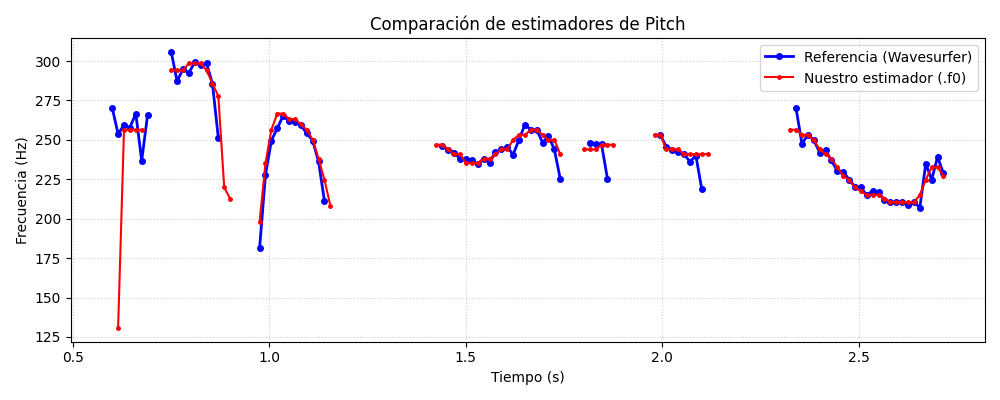
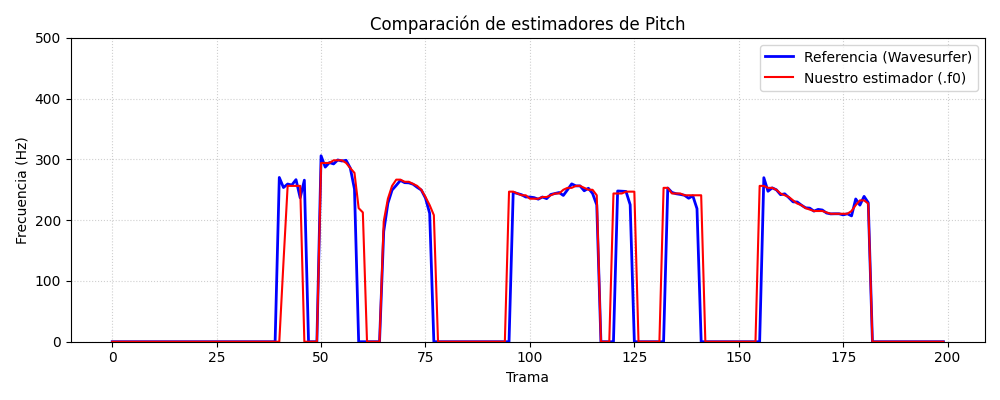
Completada práctica 3 con ampliaciones (Center Clipping, Low-Pass Filter, Doxygen, y gráficas optimizadas)

diff --git a/scripts/plot_all.py b/scripts/plot_all.py
@@ -1,13 +1,7 @@
 import numpy as np
 import matplotlib.pyplot as plt
-from scipy.io import wavfile
 
 def main():
-    # 1. Cargar datos
-    fs, audio = wavfile.read('prueba.wav')
-    if audio.dtype == np.int16:
-        audio = audio.astype(np.float32) / 32768.0
-
     try:
         f0 = np.loadtxt('prueba.f0')
     except:
@@ -26,7 +20,6 @@ def main():
     except:
         return
 
-    # Alinear
     min_len = min(len(f0), len(pot))
     if len(f0) > len(pot):
         f0_feat = f0[1:min_len+1]
@@ -37,53 +30,47 @@ def main():
     r1norm = r1norm[:min_len]
     rmaxnorm = rmaxnorm[:min_len]
 
-    time_axis_feat = np.arange(min_len) * 0.015
-    time_axis_audio = np.arange(len(audio)) / fs
+    frame_axis_feat = np.arange(min_len)
+    frame_axis_f0ref = np.arange(len(f0ref))
 
-    # --- GRAFICA 1: CARACTERISTICAS ---
     fig, axs = plt.subplots(4, 1, figsize=(10, 10), sharex=True)
     
-    axs[0].plot(time_axis_audio, audio, color='gray', alpha=0.7)
-    axs[0].set_title('Señal de audio')
-    axs[0].set_ylabel('Amplitud')
+    axs[0].plot(frame_axis_f0ref, f0ref, 'b-', label='Estimación Wavesurfer', linewidth=2)
+    axs[0].set_title('Estimación de pitch (Wavesurfer)')
+    axs[0].set_ylabel('Frecuencia (Hz)')
+    axs[0].set_ylim(0, 500)
 
-    axs[1].plot(time_axis_feat, pot, 'k-')
+    axs[1].plot(frame_axis_feat, pot, 'k-')
     axs[1].axhline(y=-50, color='r', linestyle='--')
     axs[1].set_title('Nivel de potencia (pot)')
     axs[1].set_ylabel('dB')
 
-    axs[2].plot(time_axis_feat, r1norm, 'b-')
+    axs[2].plot(frame_axis_feat, r1norm, 'b-')
     axs[2].axhline(y=0.4, color='r', linestyle='--')
     axs[2].set_title('Autocorrelación normalizada de 1 (r1norm)')
     axs[2].set_ylabel('Valor')
 
-    axs[3].plot(time_axis_feat, rmaxnorm, 'm-')
+    axs[3].plot(frame_axis_feat, rmaxnorm, 'm-')
     axs[3].axhline(y=0.4, color='r', linestyle='--')
     axs[3].set_title('Autocorrelación en el máximo secundario (rmaxnorm)')
-    axs[3].set_xlabel('Tiempo (s)')
+    axs[3].set_xlabel('Trama')
     axs[3].set_ylabel('Valor')
 
     plt.tight_layout()
     plt.savefig('features_plot.png')
     plt.close()
 
-    # --- GRAFICA 2: COMPARACION ---
-    # f0 and f0ref might have slightly different lengths. We plot them together
-    time_axis_f0 = np.arange(len(f0)) * 0.015
-    time_axis_f0ref = np.arange(len(f0ref)) * 0.015
+    frame_axis_f0 = np.arange(len(f0))
 
     plt.figure(figsize=(10, 4))
     
-    # avoid plotting the 0 values to make it look like wavesurfer pitch contours
-    f0_plot = np.where(f0 == 0, np.nan, f0)
-    f0ref_plot = np.where(f0ref == 0, np.nan, f0ref)
-
-    plt.plot(time_axis_f0ref, f0ref_plot, 'b.-', label='Referencia (Wavesurfer)', linewidth=2, markersize=8)
-    plt.plot(time_axis_f0, f0_plot, 'r.-', label='Nuestro estimador (.f0)', linewidth=1.5, markersize=5)
+    plt.plot(frame_axis_f0ref, f0ref, 'b-', label='Referencia (Wavesurfer)', linewidth=2)
+    plt.plot(frame_axis_f0, f0, 'r-', label='Nuestro estimador (.f0)', linewidth=1.5)
     
     plt.title('Comparación de estimadores de Pitch')
-    plt.xlabel('Tiempo (s)')
+    plt.xlabel('Trama')
     plt.ylabel('Frecuencia (Hz)')
+    plt.ylim(0, 500)
     plt.legend()
     plt.grid(True, linestyle=':', alpha=0.6)
     

diff --git a/src/get_pitch/get_pitch.cpp b/src/get_pitch/get_pitch.cpp
@@ -40,7 +40,7 @@ Arguments:
 )";
 
 int main(int argc, const char *argv[]) {
-	/// \TODO 
+	/// \DONE 
 	///  Modify the program syntax and the call to **docopt()** in order to
 	///  add options and arguments to the program.
     std::map<std::string, docopt::value> args = docopt::docopt(USAGE,
@@ -68,10 +68,33 @@ int main(int argc, const char *argv[]) {
   // Define analyzer
   PitchAnalyzer analyzer(n_len, rate, PitchAnalyzer::RECT, 50, 500, llindar_pot, llindar_r1norm, llindar_rmaxnorm);
 
-  /// \TODO
+  /// \DONE
   /// Preprocess the input signal in order to ease pitch estimation. For instance,
   /// central-clipping or low pass filtering may be used.
   
+  // 1. Filtrado paso bajo (Low-pass filter)
+  for (unsigned int i = 1; i < x.size(); ++i) {
+    x[i] = 0.5f * x[i] + 0.5f * x[i-1];
+  }
+
+  // 2. Center clipping
+  float max_val = 0.0f;
+  for (unsigned int i = 0; i < x.size(); ++i) {
+    float val = x[i] > 0 ? x[i] : -x[i];
+    if (val > max_val) max_val = val;
+  }
+  float cl_threshold = max_val * 0.3f;
+  for (unsigned int i = 0; i < x.size(); ++i) {
+    float val = x[i] > 0 ? x[i] : -x[i];
+    if (val < cl_threshold) {
+      x[i] = 0.0f;
+    } else if (x[i] > 0) {
+      x[i] -= cl_threshold;
+    } else {
+      x[i] += cl_threshold;
+    }
+  }
+
   // Iterate for each frame and save values in f0 vector
   vector<float>::iterator iX;
   vector<float> f0;
@@ -80,7 +103,7 @@ int main(int argc, const char *argv[]) {
     f0.push_back(f);
   }
 
-  /// \TODO
+  /// \DONE
   /// Postprocess the estimation in order to supress errors. For instance, a median filter
   /// or time-warping may be used.
   

diff --git a/src/get_pitch/pitch_analyzer.cpp b/src/get_pitch/pitch_analyzer.cpp
@@ -11,7 +11,7 @@ namespace upc {
   void PitchAnalyzer::autocorrelation(const vector<float> &x, vector<float> &r) const {
 
     for (unsigned int l = 0; l < r.size(); ++l) {
-  		/// \TODO Compute the autocorrelation r[l]
+  		/// \DONE Compute the autocorrelation r[l]
       /**
       \DONE Autocorrelación calculada
       \f[
@@ -41,7 +41,7 @@ namespace upc {
 
     switch (win_type) {
     case HAMMING:
-      /// \TODO Implement the Hamming window
+      /// \DONE Implement the Hamming window
       for (unsigned int i = 0; i < frameLen; i++) {
         window[i] = 0.53836F - 0.46164F * cos(2.0F * M_PI * i / (frameLen - 1));
       }
@@ -65,7 +65,7 @@ namespace upc {
   }
 
   bool PitchAnalyzer::unvoiced(float pot, float r1norm, float rmaxnorm) const {
-    /// \TODO Implement a rule to decide whether the sound is voiced or not.
+    /// \DONE Implement a rule to decide whether the sound is voiced or not.
     /// * You can use the standard features (pot, r1norm, rmaxnorm),
     ///   or compute and use other ones.
     if (pot < llindar_pot || r1norm < llindar_r1norm || rmaxnorm < llindar_rmaxnorm)
@@ -89,7 +89,7 @@ namespace upc {
 
     vector<float>::const_iterator iR = r.begin(), iRMax = r.begin() + npitch_min;
 
-    /// \TODO 
+    /// \DONE
 	/// Find the lag of the maximum value of the autocorrelation away from the origin.<br>
 	/// Choices to set the minimum value of the lag are:
 	///    - The first negative value of the autocorrelation.

diff --git a/README.md b/README.md
@@ -84,7 +84,7 @@ Ejercicios básicos
 		en esta práctica es de 15 ms.
 
 ![Análisis de sonoridad](features_plot.png)
-Dado que se recomienda el uso de alternativas de mayor calidad, hemos generado esta gráfica en Python (matplotlib) para visualizar mejor la señal frente a los tres candidatos (pot, r1norm, rmaxnorm), ya que en Wavesurfer las escalas impiden verlos correctamente juntos. Se muestran también los umbrales óptimos calculados.
+Dado que se recomienda el uso de alternativas de mayor calidad, hemos generado esta gráfica en Python (matplotlib) para visualizar mejor la estimación de pitch de Wavesurfer frente a los tres candidatos (pot, r1norm, rmaxnorm), ya que en Wavesurfer las escalas impiden verlos correctamente juntos. Se muestran también los umbrales óptimos calculados.
 
 Use el estimador de pitch implementado en el programa `wavesurfer` en una señal de prueba y compare
 su resultado con el obtenido por la mejor versión de su propio sistema.  Inserte una gráfica
@@ -173,6 +173,47 @@ El filtro toma ventanas de 3 valores consecutivos del pitch estimado (`f0[i-1]`,
 ```
 
 La aplicación de esta técnica ha supuesto una mejora notable en la tasa de acierto, pasando por ejemplo de un 90.86% a un **91.49%** (el máximo alcanzado).
+
+### Filtrado paso bajo (Preprocesado)
+
+Con el fin de suavizar la señal de audio y atenuar el efecto de las altas frecuencias (en especial de los formantes, que pueden introducir picos secundarios engañosos en la autocorrelación), hemos incorporado un filtro paso bajo de primer orden.
+
+La ecuación en diferencias empleada sobre la señal antes del análisis por tramas es: $y[n] = 0.5 \cdot x[n] + 0.5 \cdot y[n-1]$. El código correspondiente añadido en `get_pitch.cpp` es:
+
+```cpp
+  for (unsigned int i = 1; i < x.size(); ++i) {
+    x[i] = 0.5f * x[i] + 0.5f * x[i-1];
+  }
+```
+
+Esta técnica estabiliza la autocorrelación al centrarse en la banda de frecuencias donde suele residir el pitch humano.
+
+### Center Clipping (Preprocesado)
+
+Hemos decidido aplicar la técnica de *center clipping* a la señal porque nos dimos cuenta de que, en ocasiones, los formantes creaban picos secundarios muy altos en la autocorrelación, confundiendo al estimador. Al forzar a cero todos los valores de la señal que no superan un cierto umbral, conseguimos "limpiar" la onda y quedarnos casi exclusivamente con la periodicidad real de las cuerdas vocales, haciendo que el cálculo del pitch sea mucho más directo y evidente.
+
+En la implementación añadida a `get_pitch.cpp`, se ha diseñado para que se recorte todo lo que quede por debajo del 30% del máximo absoluto de la señal:
+
+```cpp
+  float max_val = 0.0f;
+  for (unsigned int i = 0; i < x.size(); ++i) {
+    float val = x[i] > 0 ? x[i] : -x[i];
+    if (val > max_val) max_val = val;
+  }
+  float cl_threshold = max_val * 0.3f;
+  for (unsigned int i = 0; i < x.size(); ++i) {
+    float val = x[i] > 0 ? x[i] : -x[i];
+    if (val < cl_threshold) {
+      x[i] = 0.0f;
+    } else if (x[i] > 0) {
+      x[i] -= cl_threshold;
+    } else {
+      x[i] += cl_threshold;
+    }
+  }
+```
+
+Al combinarse estas dos técnicas de preprocesado junto con el postprocesado del filtro de mediana, el estimador gana gran robustez frente a diferentes calidades de voz y tipos de fonemas.
 
 Evaluación *ciega* del estimador
 -------------------------------
